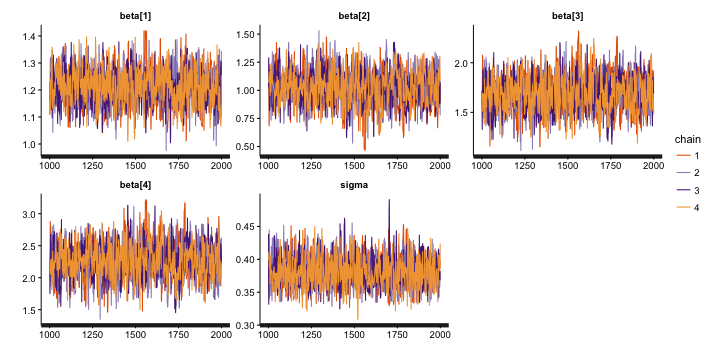
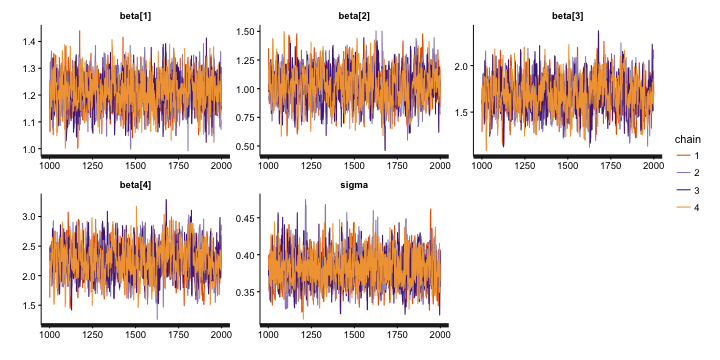
small edits bayes modeling

diff --git a/_posts/2016-03-19-Bayesian-Modeling.md b/_posts/2016-03-19-Bayesian-Modeling.md
@@ -434,7 +434,7 @@ model {
 {% endhighlight %}
 
 # Fitting Models with Markov Chain Monte Carlo
-When posterior distributions are complicated, MCMC uses simulations to find the best model fit. The algorithm draws random samples from the posterior distribution.
+When posterior distributions are complicated, MCMC uses simulations to find the best model fit. Markov chain Monte Carlo is a general method based on drawing values of $$\theta$$ from approximate distributions and then correcting those draws to better approximate the target posterior distribution, $$p(\theta \vert y)$$. The samples are drawn sequentially, with the distribution of sampled draws depending onthe last value drawn. 
 
 Variants of MCMC include
 
@@ -442,7 +442,7 @@ Variants of MCMC include
 * Gibbs sampling
 * Hamiltonian monte carlo
 
-The gist of the algorithm is this. Several Markov chains are run in parallel. Each start at some list of initial values and wander through a distribution of parameter estimates. The goal is to run the algorithm until the simulations from the separate initial values converge to a common distribution. Since each chain starts from a random start site, there is a warmup period which allows the chain to get a feel for the sample space. The warmup period is discarded to lose the influence of the starting values. 
+The gist of the algorithm is this. Several Markov chains are run in parallel. Each start at some list of initial values and wander through a distribution of parameter estimates. The goal is to run the algorithm until the simulations from the separate initial values converge to a common distribution. Since each chain starts from a random start site, there is a warmup period which allows the chain to get a feel for the parameter space. The warmup period is discarded to lose the influence of the starting values. 
 
 We can obtain diagnostics of the MCMC convergence from the stan models
 
@@ -458,12 +458,12 @@ We should examine traceplots for chains that do not seem to mix in well with oth
 ## Inference for the input samples (4 chains: each with iter=1000; warmup=500):
 ## 
 ##         mean se_mean  sd 2.5%  25%  50%  75% 97.5% n_eff Rhat
-## beta[1]  1.2     0.0 0.1  1.1  1.2  1.2  1.3   1.3   609    1
-## beta[2]  1.0     0.0 0.2  0.7  0.9  1.0  1.1   1.3   372    1
-## beta[3]  1.7     0.0 0.2  1.4  1.6  1.7  1.8   2.1   395    1
-## beta[4]  2.3     0.0 0.3  1.7  2.1  2.3  2.5   2.8   385    1
-## sigma    0.4     0.0 0.0  0.3  0.4  0.4  0.4   0.4   951    1
-## lp__    69.7     0.1 1.6 65.7 68.9 70.0 70.8  71.7   534    1
+## beta[1]  1.2     0.0 0.1  1.1  1.2  1.2  1.3   1.3   680    1
+## beta[2]  1.0     0.0 0.2  0.7  0.9  1.0  1.1   1.3   381    1
+## beta[3]  1.7     0.0 0.2  1.3  1.6  1.7  1.8   2.0   409    1
+## beta[4]  2.3     0.0 0.3  1.7  2.1  2.2  2.4   2.8   386    1
+## sigma    0.4     0.0 0.0  0.3  0.4  0.4  0.4   0.4   907    1
+## lp__    69.6     0.1 1.5 65.8 68.8 69.9 70.7  71.7   608    1
 ## 
 ## For each parameter, n_eff is a crude measure of effective sample size,
 ## and Rhat is the potential scale reduction factor on split chains (at 
@@ -475,8 +475,17 @@ We should examine traceplots for chains that do not seem to mix in well with oth
 * **n_eff**: effective number of simulation draws; would like to be $$>100$$ for good estimates and confidence intervals
 * **Rhat**: square root of the variance of mixture of all the chains divided by average within-chain variance; $$\approx 1$$ as chains converge; values $$>> 1$$ indicates poor convergence
 
-beta-binomial: varying probabilties
-gamma-poisson: varying rates
-dirichlet-multinomial
+# Summarising Models Fits
+
+Graphical summaries of model fits work well with the outputs generated from Stan. Potential plots include
+
+* Point estimates and 95% credible regions of estimated coefficients 
+* Distributions of varying slopes/intercepts
+* Other plots of simulated results
+
+We can compare models with
+
+* Simulate model and generate 95% credible regions for $$\hat{y}$$, compare to $$y_{obs}$$
+* Deviance statistics such as AIC, DIC, WAIC (smaller is better)
 
 [laplace_link]: https://en.wikipedia.org/wiki/Laplace_distribution

diff --git a/_posts/2016-01-04-Causal-Inference.md b/_posts/2016-01-04-Causal-Inference.md
@@ -74,3 +74,4 @@ Sometimes when building complex experiments, we may use confounding to our advan
 ## Analysis-Based Design
 Analyses should be analyzed based on how the data was designed. Failing to do so may lead to biased results. 
 
+# Missing Data
